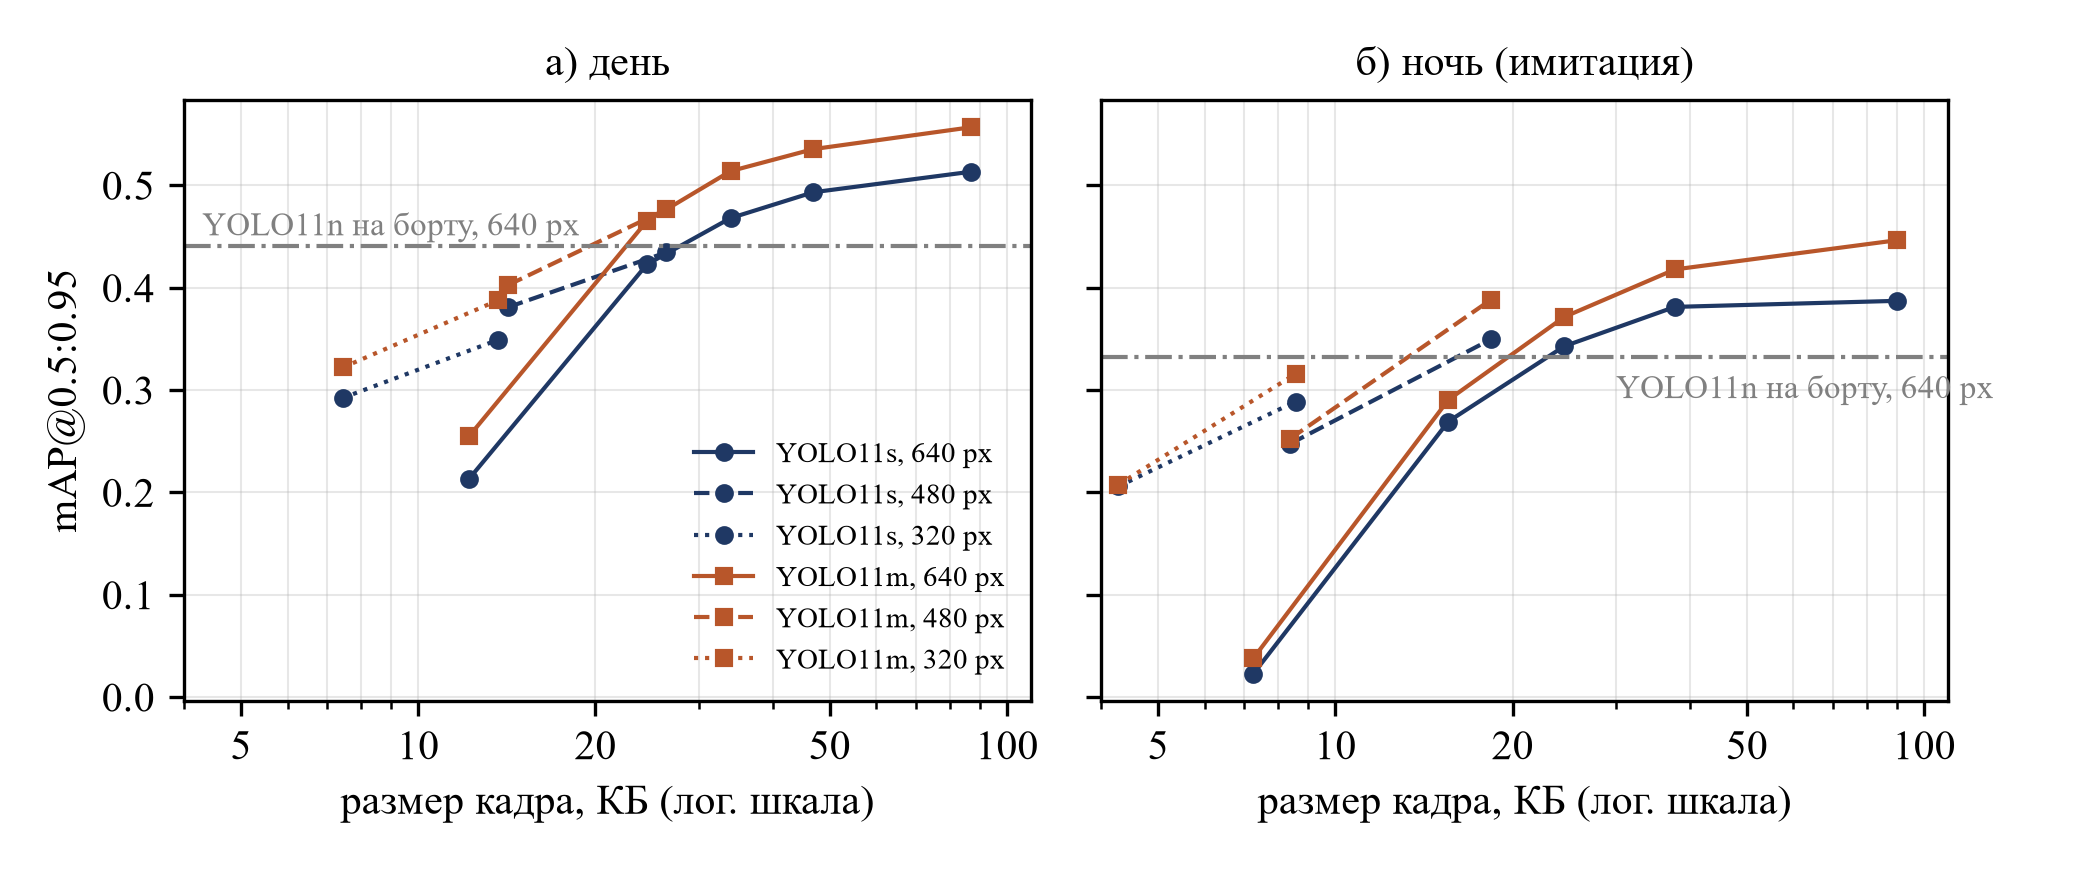
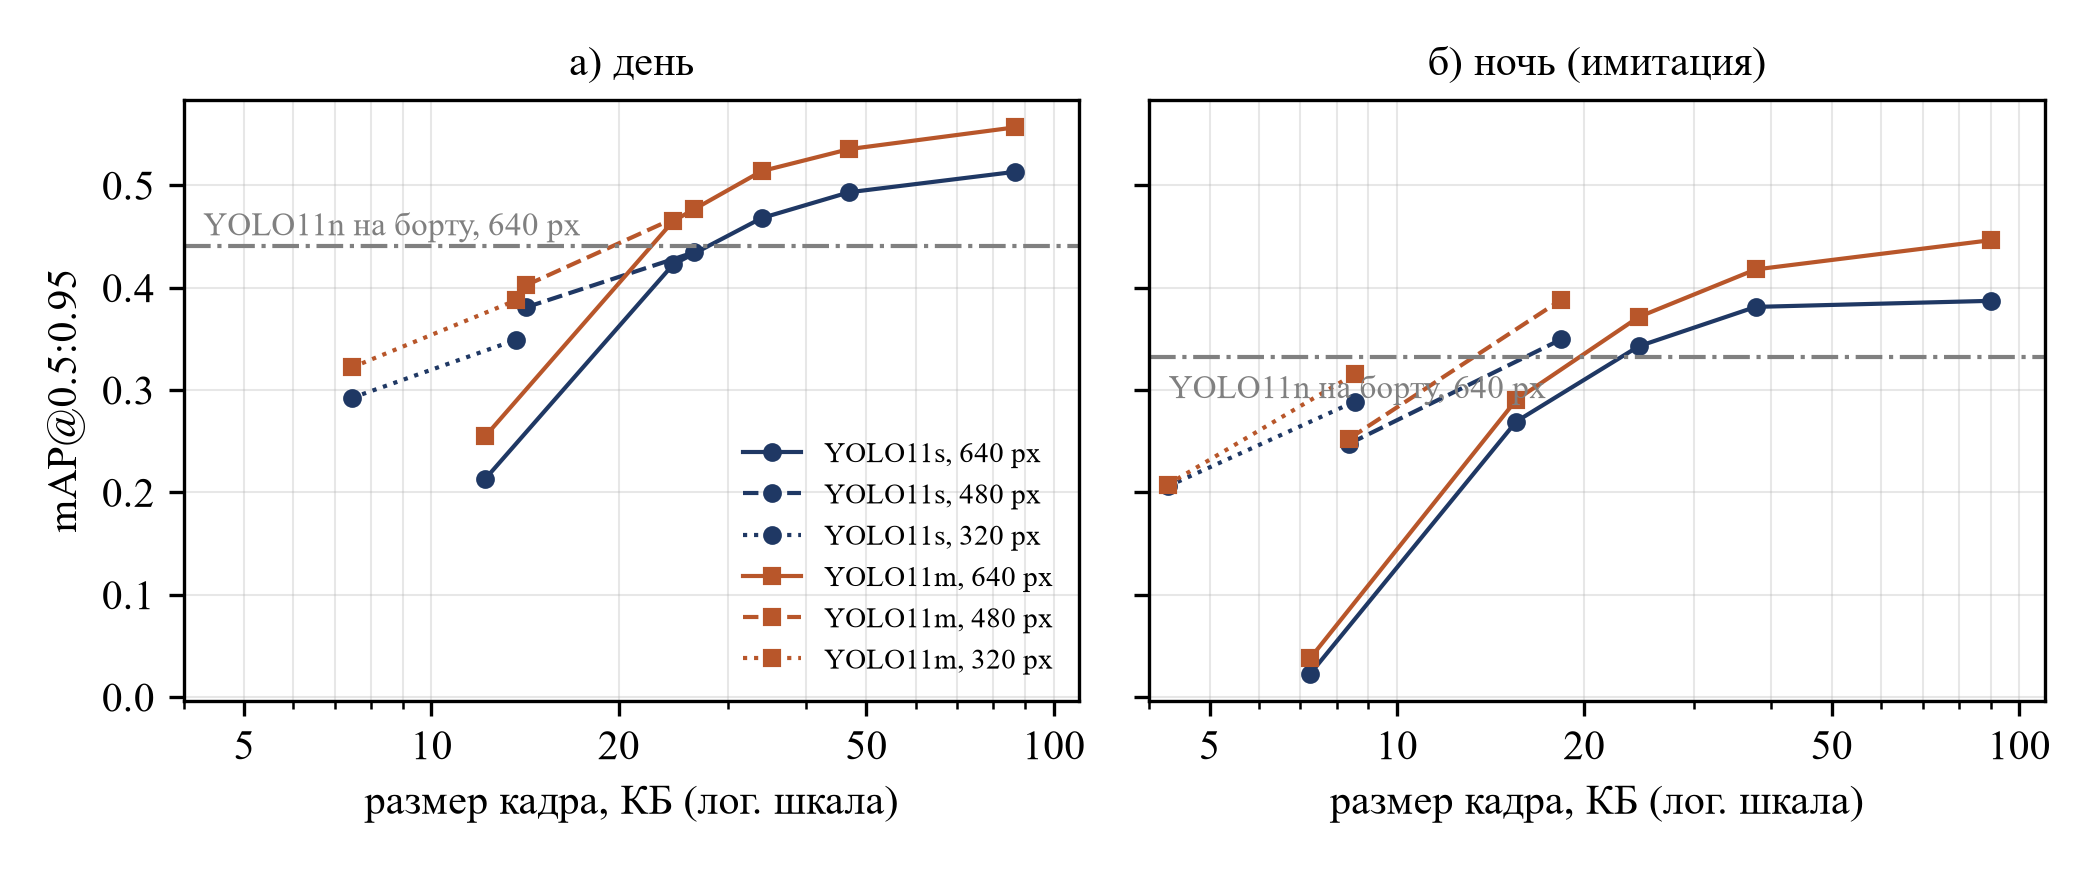
English figures, paper title

diff --git a/README.md b/README.md
@@ -1,6 +1,6 @@
 # edge-offload-detection
 
-On-board or roadside server: where should a vehicle run its object detector?
+On board or at the roadside? Accuracy and latency of offloaded object detection for connected vehicles under frame compression and low light.
 
 This repository has the code and all raw measurements for the paper by A. Mingazov and A. Andrianova (Kazan Federal University, 2026). We compare a light YOLO model on a weak on-board computer with a heavier model on an edge server that receives a JPEG-compressed frame. Both daylight and simulated low light are tested.
 
@@ -26,8 +26,8 @@ This repository has the code and all raw measurements for the paper by A. Mingaz
 - Server YOLO11s (8 threads) plus transmission is not slower than on-board YOLO11n with one thread when the uplink provides about 20 Mbit/s in daylight and 16 Mbit/s at night. An on-board computer with two threads is always faster in this configuration.
 - One 8-thread CPU server runs YOLO11s at about 23 frames per second, which is only two vehicles at 10 fps. A single roadside computer without an accelerator is not enough.
 
-![accuracy vs frame size](fig/fig1_acc_vs_size.png)
-![latency vs bandwidth](fig/fig2_latency_vs_bw.png)
+![accuracy vs frame size](fig/fig1_acc_vs_size_en.png)
+![latency vs bandwidth](fig/fig2_latency_vs_bw_en.png)
 
 ## Files
 - `prep.py`: selects the images, builds the low-light copies and all JPEG variants, records sizes and encode / decode times.
